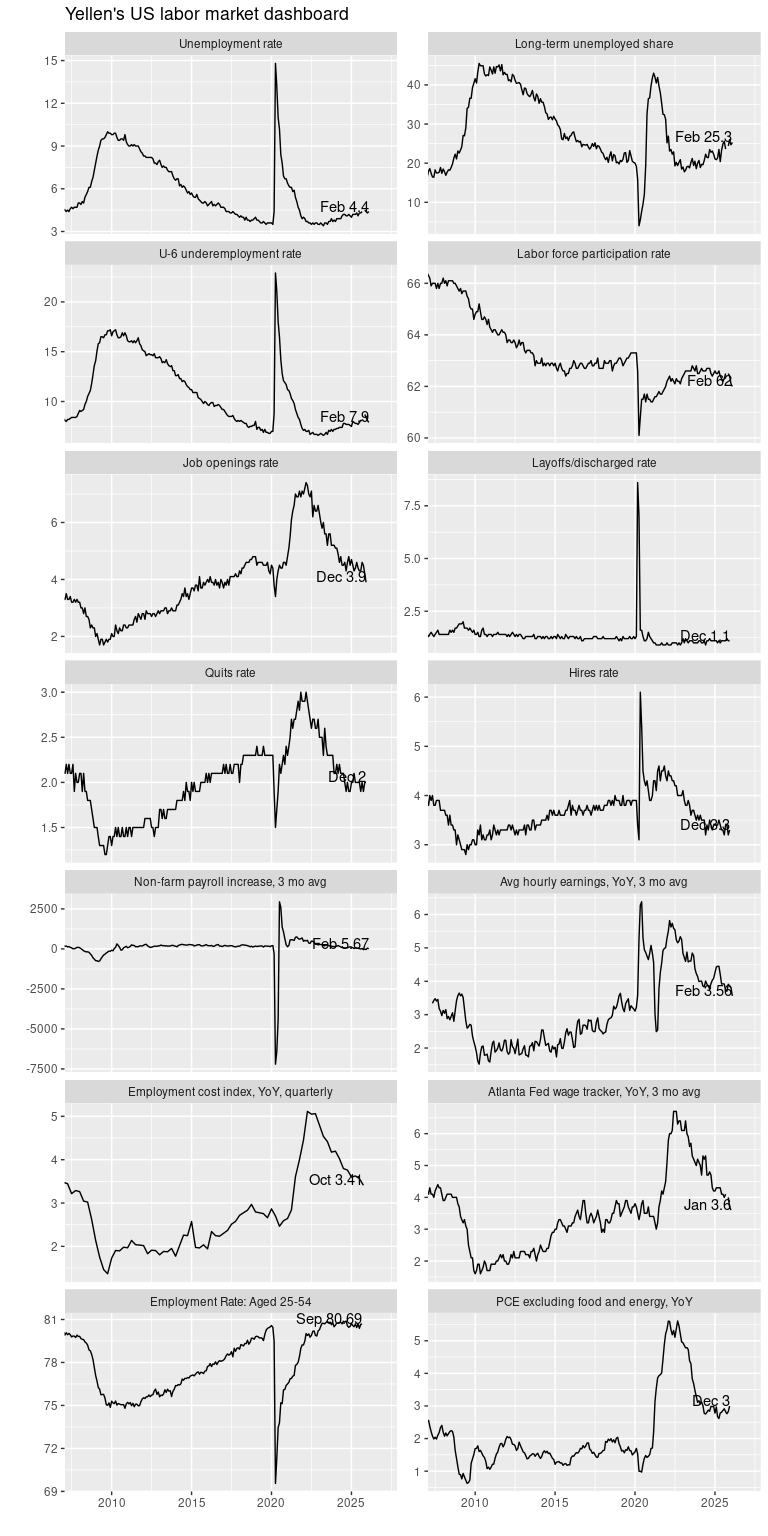
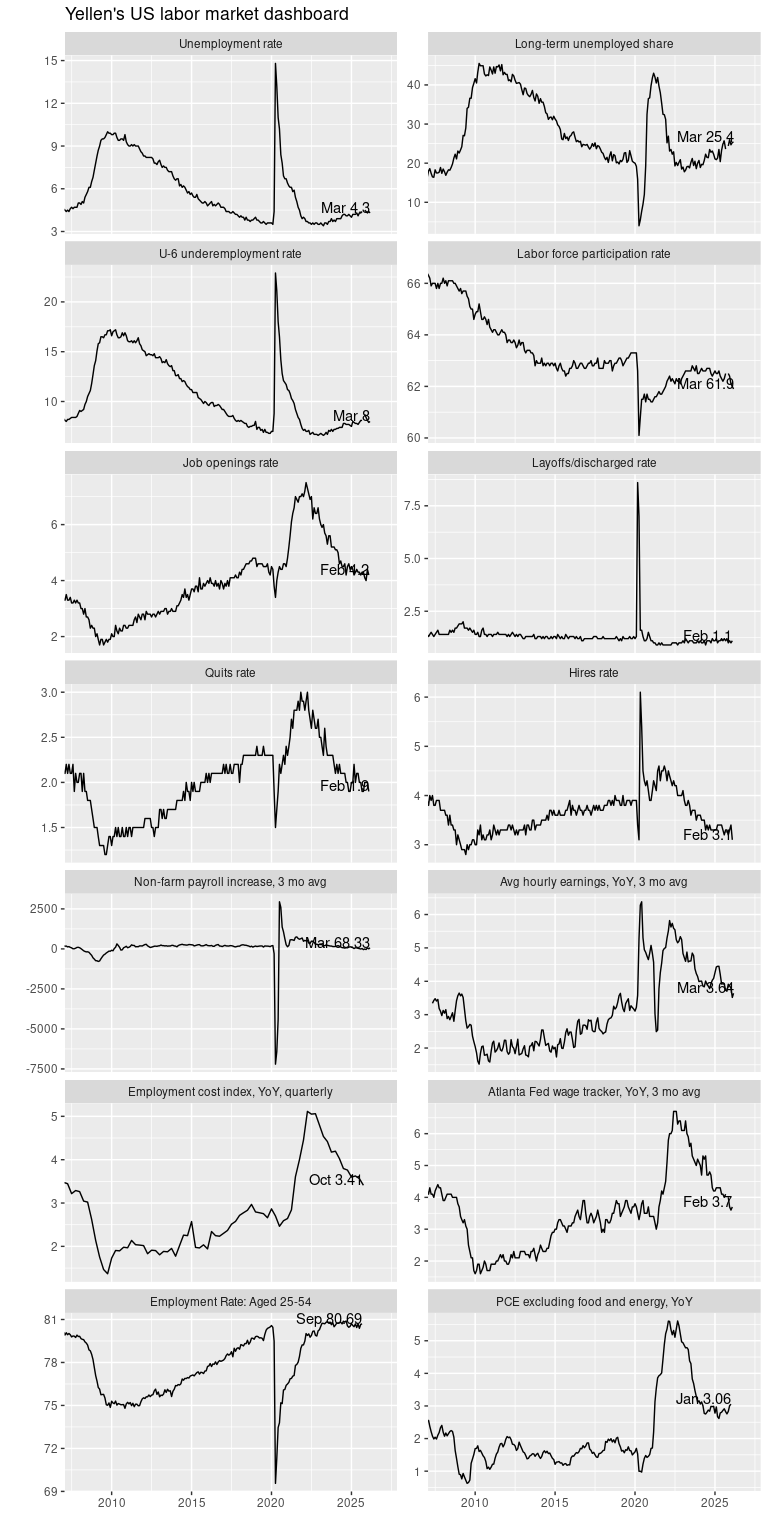
update March 2026 employment

diff --git a/README.md b/README.md
@@ -14,7 +14,7 @@ Mitsuo Shiota
 - [Prepare for the plot](#prepare-for-the-plot)
 - [Dashboard](#dashboard)
 
-Updated: 2026-03-07
+Updated: 2026-04-04
 
 ## Summary
 
